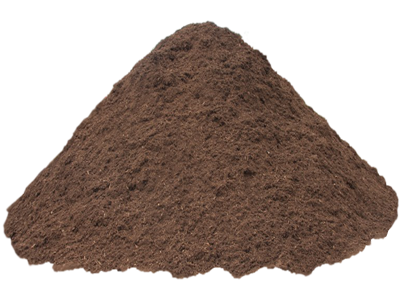
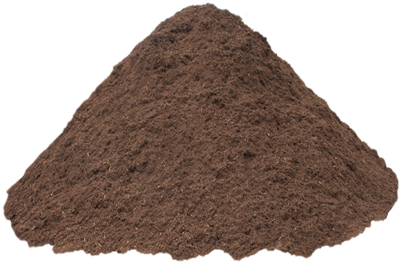
Removed extra transparent space above dirt.png

Changed region(s): [[0.0, 0.0, 1.0, 0.9888], [0.75, 0.9588, 0.78, 0.9888]]

diff --git a/style.css b/style.css
@@ -26,7 +26,7 @@ body{
     height: 80%;
     position: relative;
     margin: auto;
-    top: 20%;
+    top: 25%;
 }
 .mole{
     height: 70%;
